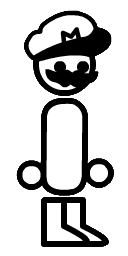
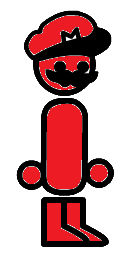
Changed player colour and window title

diff --git a/src/main.cpp b/src/main.cpp
@@ -38,7 +38,7 @@ void on_cleanup()
 
 int main(int argc, char* args[])
 {
-	util::sdl_initialize("Introduction Game (C++/SDL)", 800, 600);
+	util::sdl_initialize("What A Game", 800, 600);
 
 	on_load();
 	SDL_SetWindowIcon(util::sdl_window, icon);
